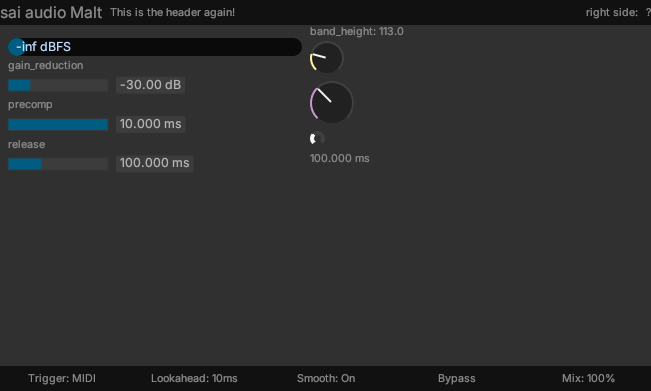
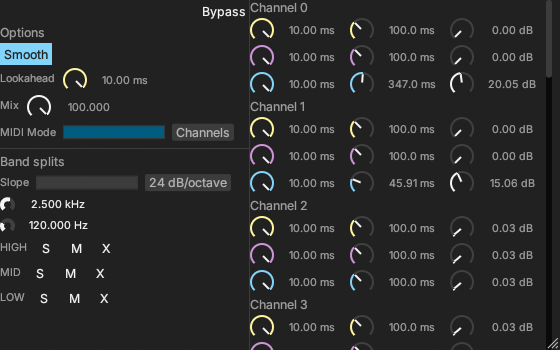
readme

diff --git a/README.md b/README.md
@@ -6,12 +6,23 @@ _(^ Mockup design, not actual product)_
 
 This was intended to be a multiband-sidechain plugin, where each band can have a different curve, attack/release times.
 
-However, the `nih-plug` framework is not mature enough and I've run into some roadblocks:
+However, the `nih-plug` framework is not mature enough and I've run into some issues:
 
+- Unable to hide/lock mouse cursor when dragging a knob
 - Text input does not work on Windows (https://github.com/robbert-vdh/nih-plug/issues/154, https://github.com/RustAudio/baseview/issues/192)
-- Window is not resizable
-- TODO: list all roadblocks
+- CLAP plugin randomly crashes when changing latency (https://github.com/robbert-vdh/nih-plug/issues/177)
+- Opening/Closing GUI causes a memory leak and evetually causes out-of-memory (https://github.com/robbert-vdh/nih-plug/issues/173)
 
 ## Actual progress
 
 ![](screenshot.png)
+
+_(^ Very quick-and-dirty UI for development)_
+
+The logic and features are all done, all that's left is the UI.
+
+Recreating the mockup UI is practically impossible in egui, unless I decide to hard-code the locations of each element (But since I'm using a resizable window, hard-coding isn't feasible). The layout system is too inflexible and limited for dynamic layouts like in the mockup.
+
+I could use [egui_flex](https://crates.io/crates/egui_flex), but it causes a weird flashing effect when resizing the window so I'm still undecided on this.
+
+In the future I might decide to rewrite the entire GUI using Iced instead. TBC.
